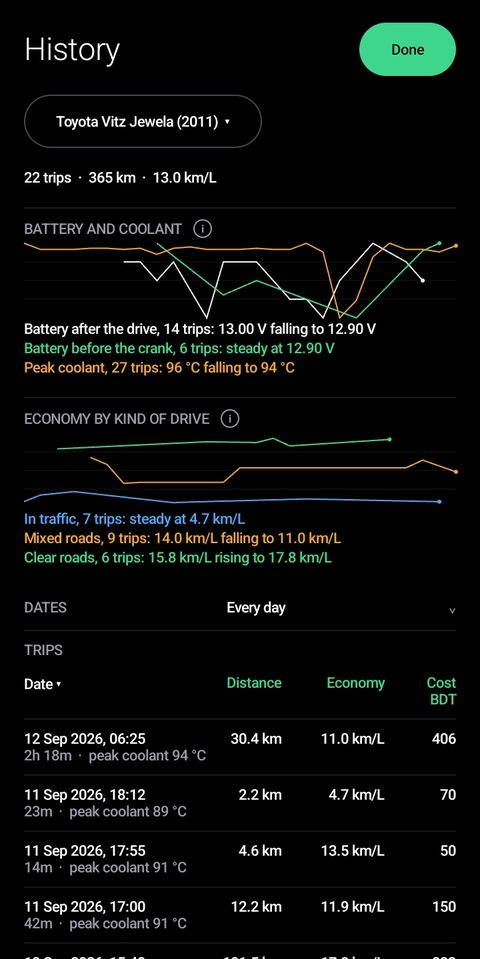
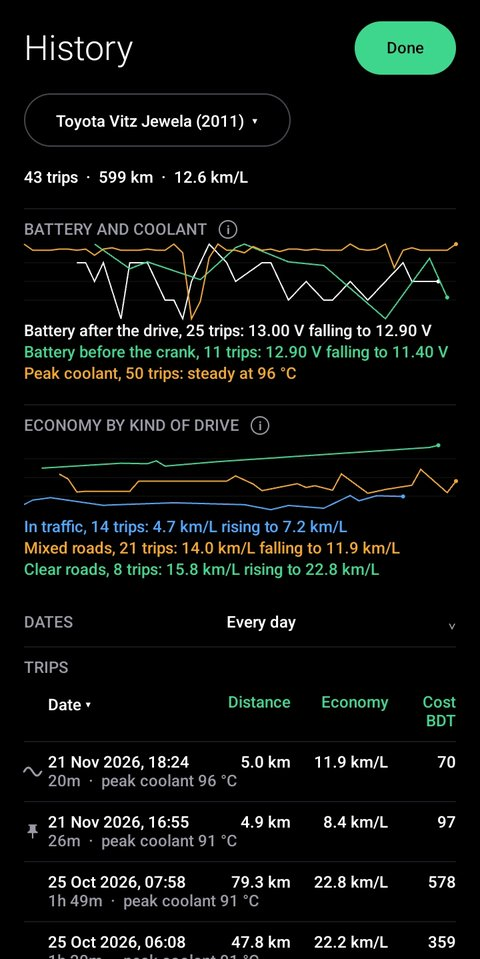
Manual: picture-in-picture and route shots, new History, shorter prose
Three new screenshots: the picture-in-picture window over another app,
a drive's route with its replay controls, and a current History screen.
The route shot's place names are blurred and its real drive replaced by
an imaginary one along other streets, running off both edges so no
start or end shows. The existing images were checked and carry nothing
identifying.

Cut what the screen already explains: Try on the dashboard, the trip
detail's list of figures, the History car filter, the confirmation
before clearing a fault, how to turn a switch off, and the like. Neon
Horizon's caption now says what it looks like rather than what shares
a dial.

diff --git a/manual.html b/manual.html
@@ -184,8 +184,7 @@
   <div>
     <div class="num">3</div>
     <h3>Choose it in the app</h3>
-    <p class="sm">Settings, then <b>Adapter</b>, and pick it from the paired list. Not listed? Pair
-      it in your phone's Bluetooth settings first, then tap <b>Refresh paired</b>.</p>
+    <p class="sm">Settings, then <b>Adapter</b>, and pick it from the paired list. Not listed? Tap <b>Refresh paired</b>.</p>
   </div>
 </div>
 
@@ -200,8 +199,7 @@
   <h2>Everything on one screen. Nothing needs a tap while moving.</h2>
   <p style="margin-top:.8rem">Speed, revs, load, economy, coolant and battery on one panel, with the
     drive's totals underneath. It turns sideways with the phone, and one swipe brings up
-    <b>Diagnostics</b>. Pick its look in Settings, under <b>Theme</b>: <b>Try on the dashboard</b>
-    previews them on the cockpit itself, and a long press on the cockpit switches theme.</p>
+    <b>Diagnostics</b>. Pick its look in Settings, under <b>Theme</b>, or long-press the cockpit to switch to the next one.</p>
 
   <div class="themes">
     <figure>
@@ -210,7 +208,7 @@
     </figure>
     <figure>
       <div class="frame"><img src="img/cockpit-neon.jpg" width="1000" height="453" loading="lazy" alt="Cockpit in the Neon Horizon theme"></div>
-      <h3>Neon Horizon</h3><p class="sm">Glowing dials; speed and revs share one.</p>
+      <h3>Neon Horizon</h3><p class="sm">Glowing dials, futuristic and sci-fi inspired.</p>
     </figure>
     <figure>
       <div class="frame"><img src="img/cockpit-flight-deck.jpg" width="1000" height="453" loading="lazy" alt="Cockpit in the Flight Deck theme"></div>
@@ -253,8 +251,7 @@
       <div class="k">Reading it at a glance</div>
       <p>Every theme is dark, so the screen does not light up the cabin at night.
         Green means a reading is where it should be, amber worth a look, red stop.</p>
-      <p>By default the display stays awake while the engine runs. It is a switch; see <i>Setting it
-        up, and living with it</i>.</p>
+      <p>By default the display stays awake while the engine runs.</p>
     </div>
   </div>
 
@@ -262,9 +259,12 @@
   <p>Leave the cockpit while the engine is running, with home or back, and it shrinks to a small
     window over whatever you open next, such as your navigation. It shows one or two readings as
     dials, coolant and battery to start with; choose them in Settings, under
-    <b>Picture-in-picture</b>. The window turns red when something serious needs a look: tap it to
-    bring the full dashboard back. With the engine off, home and back work as usual. To never get the
+    <b>Picture-in-picture</b>. The window turns red when something serious needs a look. With the engine off, home and back work as usual. To never get the
     window, turn off picture-in-picture for obd-dash in your phone's settings.</p>
+  <figure style="max-width:27rem">
+    <div class="frame"><img src="img/picture-in-picture.jpg" width="720" height="430" loading="lazy" alt="Coolant and engine speed dials in a small window over the phone's settings"></div>
+    <figcaption class="sm">The window over another app, here the phone's own settings.</figcaption>
+  </figure>
 
   <p class="sm" style="margin-top:1.1rem"><b>No adapter yet?</b> Settings has a <b>Simulated
     drive</b> that runs every screen with no adapter and no car, and stays out of your real trip
@@ -278,11 +278,9 @@
   <div class="beside left">
     <div class="text">
       <h3>History</h3>
-      <p>Reached from the clock icon in the dashboard footer. Every drive is listed with distance,
-        economy and fuel cost.</p>
+      <p>Reached from the clock icon in the dashboard footer.</p>
       <p>The two charts show what no single drive can. Battery voltage drifting down over weeks, or
-        peak coolant drifting up, is worth looking into. Neither shows up in one reading, only as a
-        trend.</p>
+        peak coolant drifting up, is worth looking into.</p>
       <p>The second keeps economy in traffic apart from economy on the open road. Economy moves with
         weather, traffic and how you drive, so compare it over weeks rather than reading one
         figure as a verdict on the engine.</p>
@@ -301,25 +299,29 @@
   <div class="beside">
     <div class="text">
       <div class="k">One drive in detail</div>
-      <p>Tap any trip for what it cost, time moving versus stopped, the hottest the engine got, the
-        highest speed and the lowest the battery dropped.</p>
+      <p>Tap any trip for its costs, times and extremes.</p>
       <p><b>Alerts raised</b> lists anything that went wrong, even briefly — a charging fault that
         came and went is something you would otherwise never know about. <b>Worth a look</b> is
         gentler: a reading outside its usual range, without being a fault.</p>
     </div>
     <div class="shot frame"><img src="img/trip-detail.jpg" width="480" height="959" loading="lazy" alt="Trip detail"></div>
+  </div>
+
+  <hr>
+  <div class="beside left">
     <div class="text">
-      <hr>
       <div class="k">Where you drove</div>
       <p>With location on, each drive's route is recorded and shown on a map at the bottom of the
-        drive, colored by speed. Pick another reading to color it by; one with a normal range, such
-        as coolant, uses the dashboard's colors, so a stretch where the engine ran hot shows amber.
+        drive, colored by speed. Color it by coolant instead and a stretch where the engine ran hot shows amber.
         A gap in the line is a tunnel or a parking garage.</p>
+      <p><b>Play</b> replays the drive with every reading along the way.</p>
       <p>Routes are kept for your newest fifty drives. <b>Pin route</b> keeps one for good, up to 25 pinned on top of the fifty. In the trip list, a drive with a route shows a route mark, and a pinned one a pin.</p>
+    </div>
+    <div class="shot frame"><img src="img/route.jpg" width="480" height="959" loading="lazy" alt="A drive's route on a map, with the readings at one point along it"></div>
+    <div class="text">
       <hr>
       <div class="k">More than one car</div>
-      <p>Cars are added and chosen in Settings, under <b>Car</b>. The name at the top of History
-        narrows the list to one car, and its charts and costs follow.</p>
+      <p>Cars are added and chosen in Settings, under <b>Car</b>.</p>
       <p>A drive saved under the wrong car can be opened and sent across with <b>Move to another
         car</b>, or deleted from there. Deleting a car takes its trips with it.</p>
     </div>
@@ -348,7 +350,7 @@
     <div class="text">
       <hr>
       <h3>Before you clear a warning light</h3>
-      <p>The app can clear a stored fault, behind a confirmation. Clearing fixes nothing — if the
+      <p>The app can clear a stored fault. Clearing fixes nothing — if the
         cause remains, the car records it again, often within a day.</p>
       <p>It also erases that snapshot and resets the car's emissions self-tests, so the car will
         <b>fail an inspection</b> until it has been driven enough to finish them. Diagnostics lists
@@ -379,8 +381,7 @@
     <div class="text">
       <h3>It can start itself</h3>
       <p>Turn on <b>Watch the car in the background</b> and the app connects on its own, records the
-        drive and lets go when you park. A notification shows what it is doing. To stop watching, turn the
-        switch off in Settings.</p>
+        drive and lets go when you park. A notification shows what it is doing.</p>
       <p><b>Wake the screen when the engine starts</b> is the more intrusive half: the dashboard
         appears over the lock screen by itself, once per drive. <b>Keep the screen on while
         driving</b> then holds it on while the engine runs, and hands it back to the phone's own
@@ -425,7 +426,7 @@
 
   <hr>
   <div class="k">Staying up to date</div>
-  <p>Installed from Google Play, the app keeps itself up to date. An update that lands mid-drive does
+  <p>An update that lands mid-drive does
     not lose the trip: the app starts itself again, with Autostart on, and carries on recording.</p>
 
   <hr>
